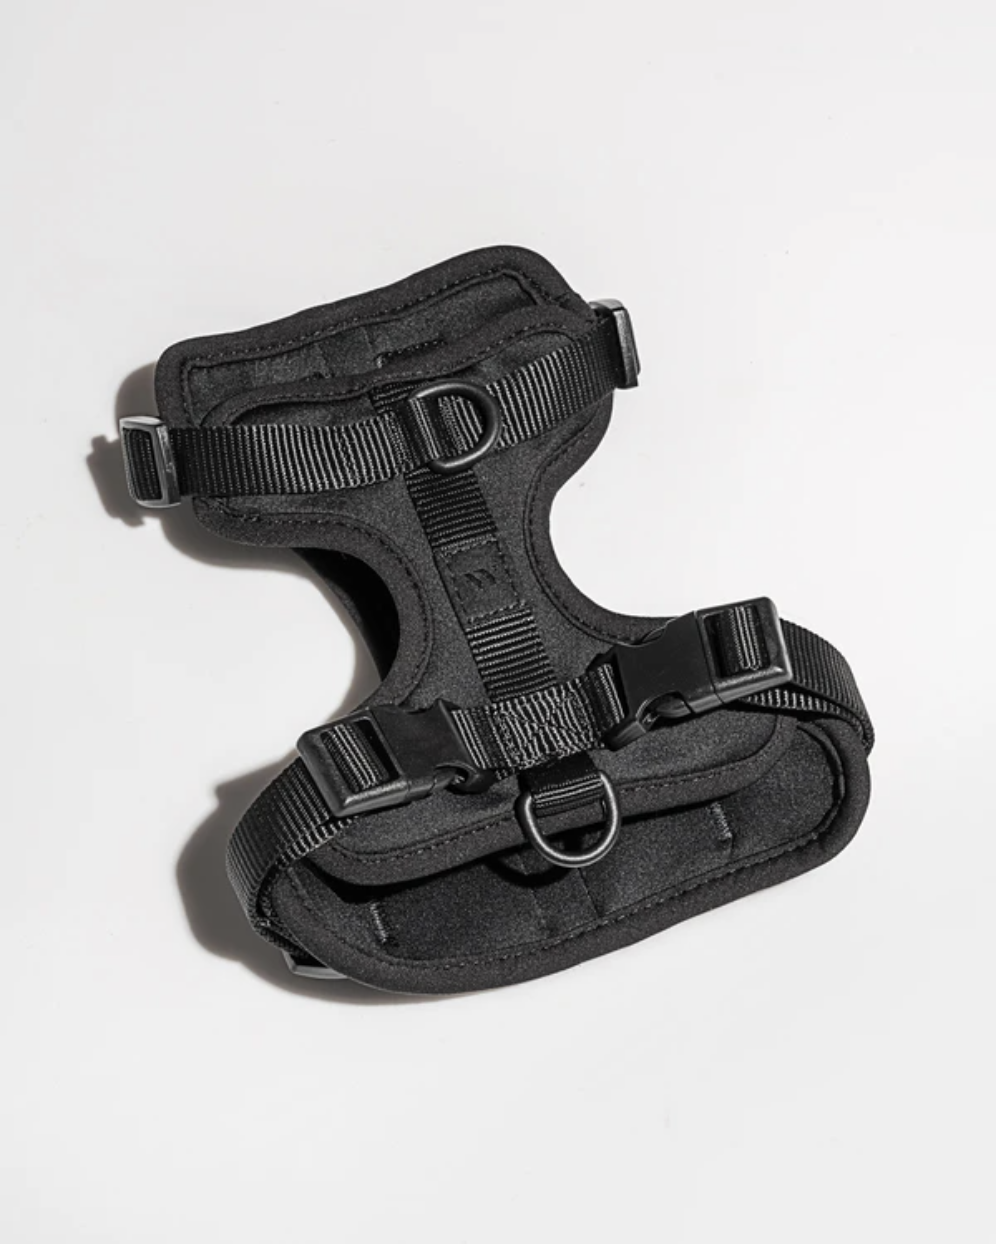
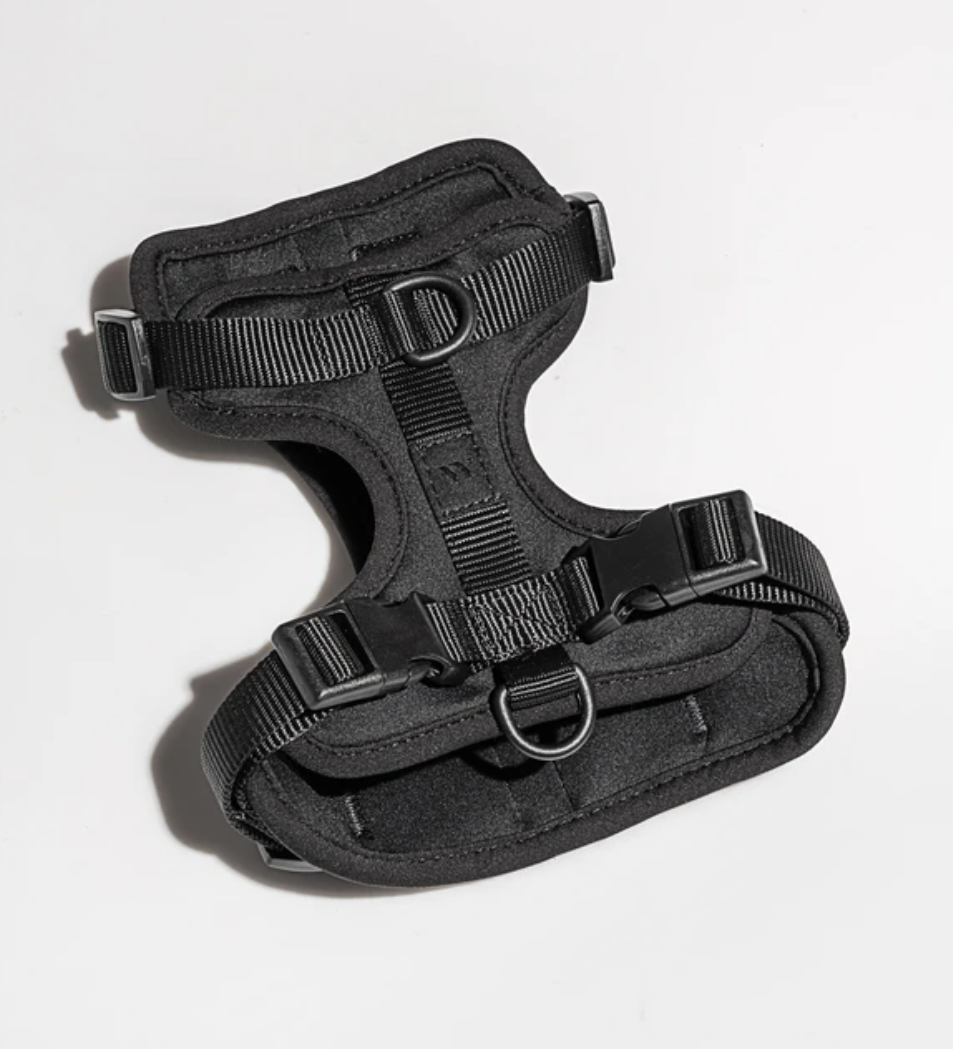
swapped out assets for correct aspect ratios

Changed region(s): [[0.0609, 0.122, 0.9129, 0.8847]]

diff --git a/src/components/Cart/Cart.js b/src/components/Cart/Cart.js
@@ -2,20 +2,95 @@ import React from 'react'
 import styles from './Cart.module.css'
 import { CartConsumer } from '../../contexts/cart'
 import { NavLink } from "react-router-dom"
+import Edit from '../../assets/edit.png'
 
 function CartItem ({item, removeFromCart, index}) {
   const name = item.item.name
   const color = item.color
+  const image = item.item.colors[color]
   const size = item.size
   const quantity = item.quantity
 
   return (
-    <div>
-      <div>{name}</div>
-      <div>{color}</div>
-      <div>{size}</div>
-      <div>{quantity}</div>
-      <button onClick={() => removeFromCart(index)}>Remove</button>
+    <div className={styles.detailsRow}>
+      <div className={styles.detailContainer} >
+        <NavLink to="/item?id=0" className='breadcrumb green'><img src={image} className={styles.itemImg} alt='cart item' /></NavLink>
+      </div>
+      <div className={styles.detailContainer} >
+        <h2>{name}</h2>
+        <p className={styles.body}>Color: {color}</p>
+        <p className={styles.body}>Size: {size}</p>
+        <p className={styles.body}>Quantity: {quantity}</p>
+        <p className={styles.remove} onClick={() => removeFromCart(index)}>Remove</p>
+      </div>
+      <div className={styles.priceContainer} >
+        <h2>{`$${item.item.price}`}</h2>
+      </div>
+    </div>
+  )
+}
+
+function CheckoutDetails ({cart}) {
+  let subtotal = 0
+  for (let i=0; i < cart.length; i++) {
+    subtotal += cart[i].quantity * parseFloat(cart[i].item.price)
+  }
+  const shippingPrice = 5.00
+  const tax = subtotal * .06
+  const total = (subtotal + shippingPrice + tax)
+
+  return (
+    <div className={styles.checkoutContainer}>
+      <CheckoutCard 
+        title = "Guest Information"
+        content = {["njen@andrew.cmu.edu"]}
+      />
+      <CheckoutCard 
+        title = "Shipping Information"
+        content = {["Nathan Jen", "5000 Forbes Ave, Pittsburgh, PA, 15213", "412-234-2234"]}
+      />
+      <CheckoutCard 
+        title = "Payment Information"
+        content = {["XXXX-XXXX-XXXX-1234"]}
+      />
+      <div className={styles.cartRow}>
+        <p className={styles.shippingDetails}>Subtotal:</p>
+        <p className={styles.shippingDetails}>{`$${subtotal.toFixed(2)}`}</p>
+      </div>
+      <div className={styles.cartRow}>
+        <p className={styles.shippingDetails}>Shipping and Handling:</p>
+        <p className={styles.shippingDetails}>{`$${shippingPrice.toFixed(2)}`}</p>
+      </div>
+      <div className={styles.cartRow}>
+        <p className={styles.shippingDetails}>Taxes:</p>
+        <p className={styles.shippingDetails}>{`$${tax.toFixed(2)}`}</p>
+      </div>
+      <div className={styles.totalRow}>
+        <p className={styles.total}>Total:</p>
+        <p className={styles.total}>{`$${total.toFixed(2)}`}</p>
+      </div>
+      <NavLink to='/orders'>
+        <button 
+          className = {styles.cartBtn}
+          // Add to orders context on click
+        >
+          Place Your Order
+        </button>
+      </NavLink>
+    </div>
+  )
+}
+
+function CheckoutCard ({ title, content }) {
+  return (
+    <div className={styles.checkoutCard}>
+      <div className={styles.cartRow}>
+        <h3 className={styles.checkoutTitle}>{title}</h3>
+        <img src={Edit} className={styles.editIcon} alt='edit icon' />
+      </div>
+      {content.map((text, i) => 
+        <p className={styles.bodySmall} key={i}>{text}</p>
+      )}
     </div>
   )
 }
@@ -31,14 +106,19 @@ export default function Cart() {
           <div className='category-name-container'>
             <h1 className="category-name">Your Cart {`(${cart.length})`}</h1>
           </div>
-          {cart.map((item, i) => 
-            <CartItem 
-              item = {item}
-              removeFromCart = {removeFromCart}
-              index = {i}
-              key = {i} 
-          />
-          )}
+          <div className={styles.cartRow}>
+            <div className={styles.itemCol}>
+              {cart.map((item, i) => 
+                <CartItem 
+                  item = {item}
+                  removeFromCart = {removeFromCart}
+                  index = {i}
+                  key = {i} 
+                />
+              )}
+            </div>
+            <CheckoutDetails cart={cart} />
+          </div>
         </div>
       )}
     </CartConsumer>

diff --git a/src/components/Cart/Cart.module.css b/src/components/Cart/Cart.module.css
@@ -1,0 +1,129 @@
+.itemCol {
+  width: 62%;
+}
+
+.detailContainer {
+  width: 40%;
+}
+
+.detailsRow {
+  display: flex;
+  justify-content: space-between;
+  align-items: stretch;
+  margin-bottom: 50px;
+}
+
+.cartRow {
+  display: flex;
+  justify-content: space-between;
+}
+
+.itemImg {
+  width: 100%;
+}
+
+.priceContainer {
+  width: 15%;
+}
+
+h2 {
+  font-style: normal;
+  font-weight: bold;
+  font-size: 36px;
+  line-height: 37px;
+  margin-bottom: 30px;
+}
+
+.body {
+  font-style: normal;
+  font-weight: normal;
+  font-size: 24px;
+  line-height: 29px;
+  margin-bottom: 30px;
+}
+
+.bodySmall {
+  font-style: normal;
+  font-weight: normal;
+  font-size: 18px;
+  line-height: 29px;
+  margin-bottom: 20px;
+  margin-left: 30px;
+}
+
+.bodySmall:last-child {
+  margin-bottom: 0px;
+}
+
+.remove {
+  font-size: 18px;
+  color: #A7A7A7;
+  text-decoration: underline;
+  cursor: pointer;
+}
+
+.checkoutContainer {
+  width: 32%;
+  padding-left: 3%;
+  border-left: 1px solid #A7A7A7;
+}
+
+.checkoutCard {
+  padding: 20px;
+  background-color: #F2F3F0;
+  width: 94%;
+  border-radius: 15px;
+  margin-bottom: 20px;
+}
+
+.checkoutTitle {
+  font-style: normal;
+  font-weight: bold;
+  font-size: 20px;
+  line-height: 29px;
+  margin-bottom: 15px;
+  color: #96D231;
+}
+
+.editIcon {
+  height: 25px;
+}
+
+.shippingDetails {
+  font-style: normal;
+  font-weight: 600;
+  font-size: 18px;
+  line-height: 22px;
+  margin-bottom: 15px;
+}
+
+.total {
+  font-style: normal;
+  font-weight: 600;
+  font-size: 28px;
+  line-height: 34px;
+  color: #96D231;
+}
+
+.totalRow {
+  margin-top: 20px;
+  padding-top: 20px;
+  border-top: 1px solid #A7A7A7;
+  display: flex;
+  justify-content: space-between;
+}
+
+.cartBtn {
+  margin-top: 40px;
+  padding: 15px;
+  border: none;
+  background-color: #96D231;
+  color: white;
+  font-style: normal;
+  font-weight: bold;
+  font-size: 28px;
+  line-height: 34px;
+  border-radius: 30px;
+  width: 100%;
+  cursor: pointer;
+}

diff --git a/src/components/Products/Products.js b/src/components/Products/Products.js
@@ -1,5 +1,5 @@
 import React from 'react'
-import styles from './Products.module.css'
+// import styles from './Products.module.css'
 import { NavLink } from "react-router-dom"
 import Items from '../../shared/items'
 import ItemCard from '../ItemCard/ItemCard'

diff --git a/src/App.js b/src/App.js
@@ -17,6 +17,8 @@ export default class App extends React.Component {
 
     this.state = {
       cart: [],
+      favorites: [],
+      orders: [],
       addToCart: (newItem) => {
         this.setState({
           cart: [newItem, ...this.state.cart],
